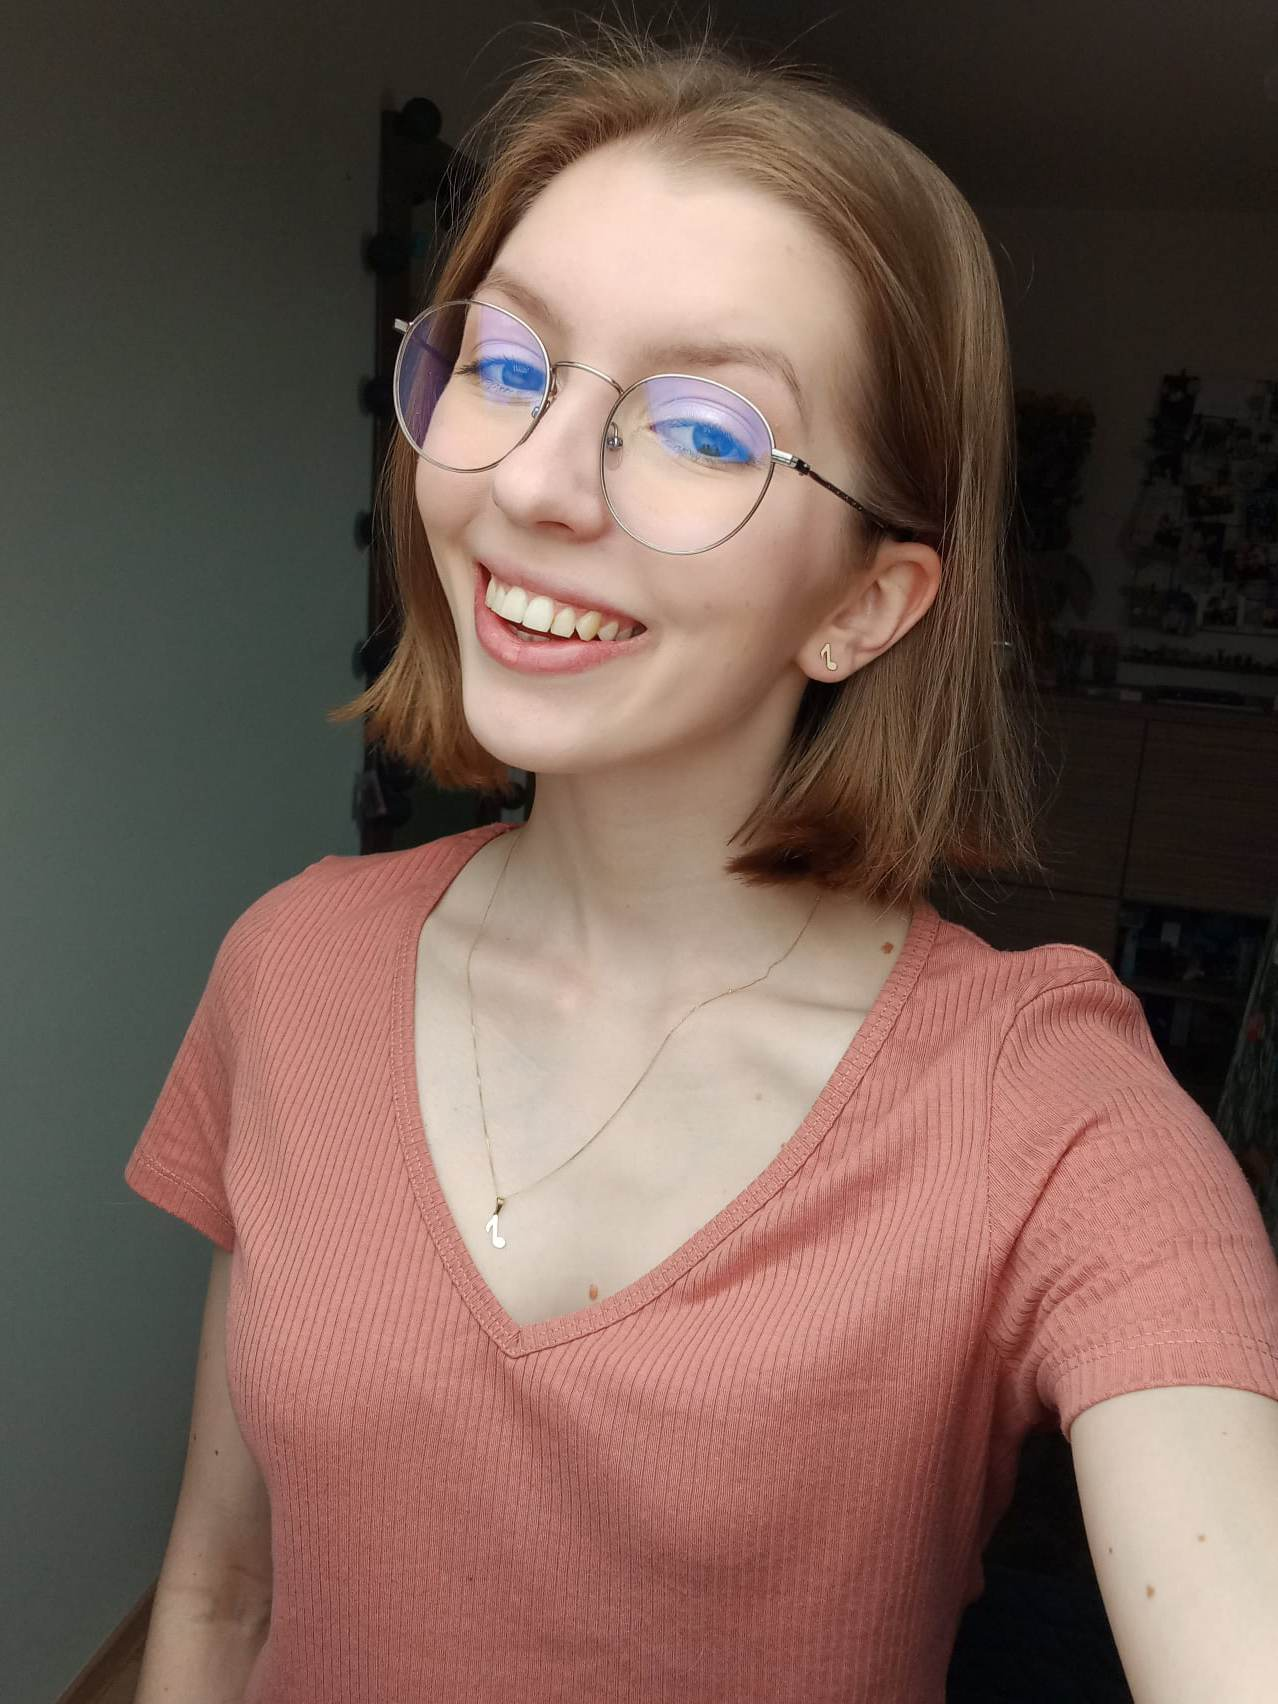
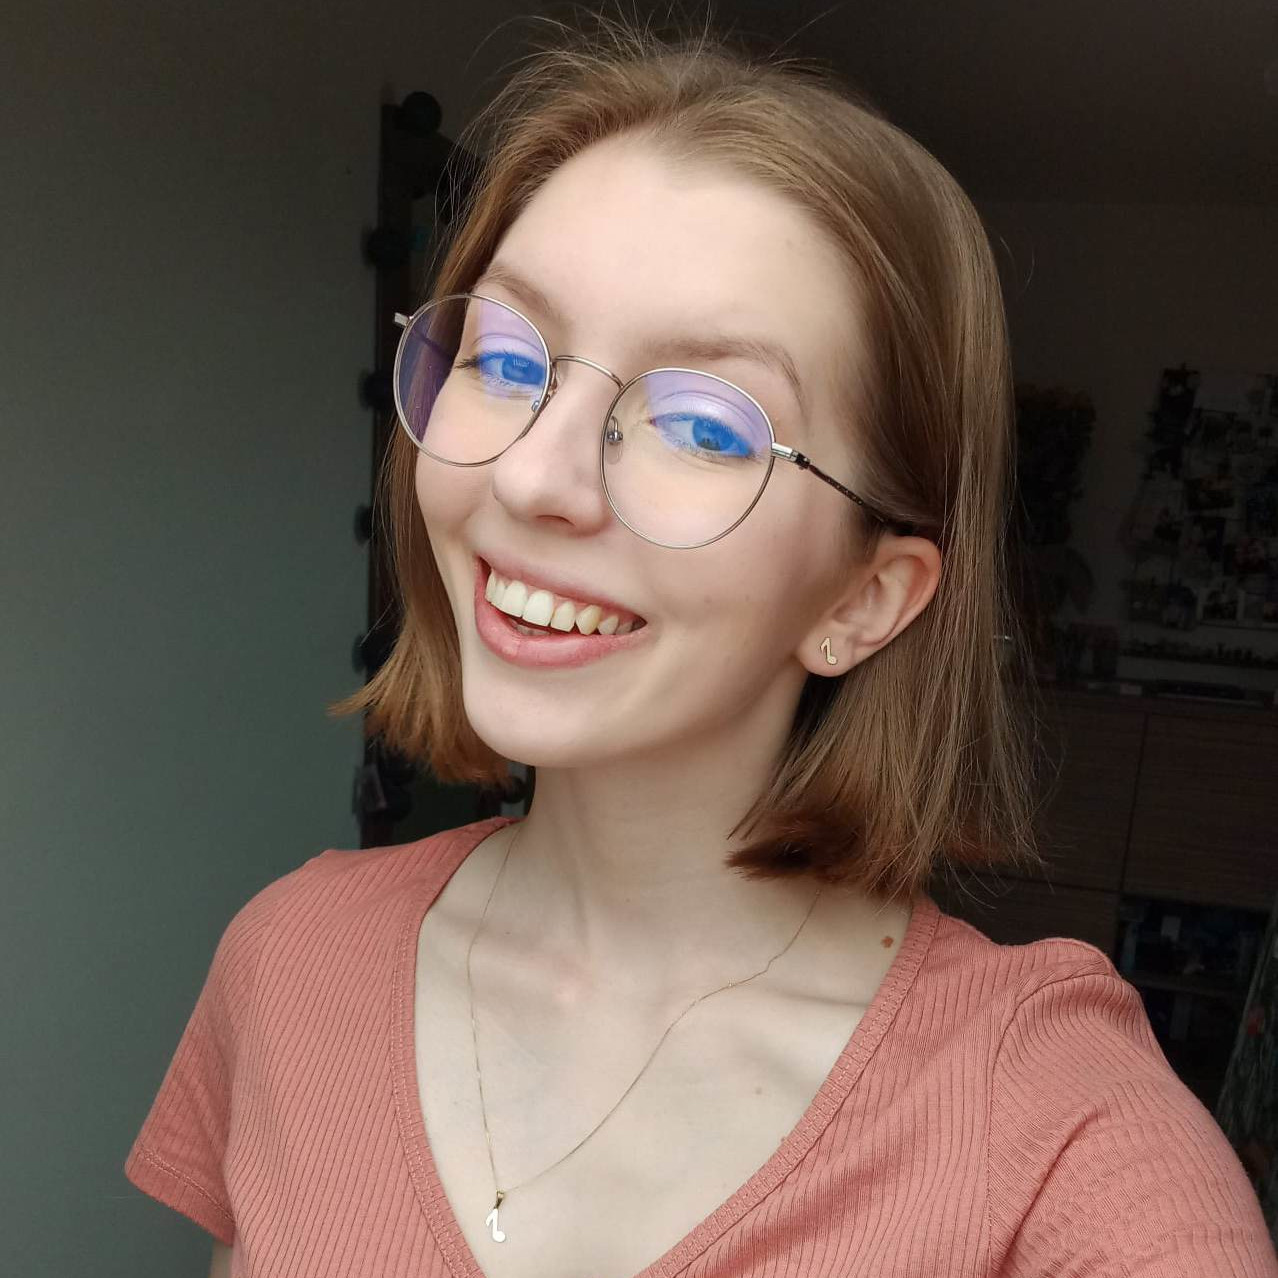
changed query in person photo

diff --git a/src/common/Header/styled.js b/src/common/Header/styled.js
@@ -13,25 +13,28 @@ export const StyledHeader = styled.header`
         margin-top: 32px;
     }
 
-    @media(max-width: ${({ theme }) => theme.breakpoints.mobile}) {
+    @media(max-width: ${({ theme }) => theme.breakpoints.tablet}) {
         flex-direction: column;
         gap: 12px;
         margin-top: 32px;
     }
 `;
 
-export const WrapperImage = styled.div`
-    width: 398px;
-    height: 398px;
+export const WrapperImage = styled.img`
+    width: 30vw;
+    height: 30vw;
     border-radius: 50%;
-    background-image: url("${person}");
-    overflow: hidden;
-    background-position: center top;
-    background-size: cover;
+    min-width: 132px;
+    min-height: 132px;
 
-    @media(max-width: ${({ theme }) => theme.breakpoints.mobile}) {
-        width: 132px;
-        height: 132px;
+    @media(max-width: ${({ theme }) => theme.breakpoints.narrow}) {
+        width: 25vw;
+        height: 25vw;
+    }
+
+    @media(max-width: ${({ theme }) => theme.breakpoints.tablet}) {
+        width: 20vw;
+        height: 20vw;
     }
 `;
 
@@ -39,7 +42,7 @@ export const WrapperDescription = styled.div`
     padding-top: 68px;
     max-width: 624px;
 
-    @media(max-width: ${({ theme }) => theme.breakpoints.mobile}) {
+    @media(max-width: ${({ theme }) => theme.breakpoints.tablet}) {
         padding-top: 0;
     }
 `;
@@ -59,7 +62,7 @@ export const Name = styled.h1`
     font-weight: 900;
     letter-spacing: 1.9px;
 
-    @media(max-width: ${({ theme }) => theme.breakpoints.mobile}) {
+    @media(max-width: ${({ theme }) => theme.breakpoints.narrow}) {
         font-size: 22px;
         letter-spacing: 1.1px;
     }
@@ -71,7 +74,7 @@ export const Description = styled.p`
     line-height: 140%;
     letter-spacing: 1px;
 
-    @media(max-width: ${({ theme }) => theme.breakpoints.mobile}) { 
+    @media(max-width: ${({ theme }) => theme.breakpoints.narrow}) { 
         font-size: 17px;
         letter-spacing: 0.85px;
     }
@@ -89,7 +92,7 @@ export const Button = styled.a`
     background-color: ${({ theme }) => theme.colors.scienceBlue};
     text-decoration: none;
 
-    @media(max-width: ${({ theme }) => theme.breakpoints.mobile}) {
+    @media(max-width: ${({ theme }) => theme.breakpoints.tablet}) {
         gap: 12px;
     }
 `;

diff --git a/src/common/Header/index.js b/src/common/Header/index.js
@@ -1,4 +1,5 @@
 import { WrapperImage, StyledHeader, WrapperDescription, Paragraph, Name, Description, Button } from "./styled";
+import person from "./person.jpg";
 import { ReactComponent as Envelope } from "./envelope.svg";
 import ModeButton from "./ModeButton";
 import { aboutMe } from "../aboutMe";
@@ -7,7 +8,7 @@ const Header = () => {
     return(
         <StyledHeader>
             <ModeButton />
-            <WrapperImage />
+            <WrapperImage src={person} alt="Angelika Mallek"/>
             <WrapperDescription>
                 <Paragraph>THIS IS</Paragraph>
                 <Name>{aboutMe.name}</Name>

diff --git a/src/Theme/theme.js b/src/Theme/theme.js
@@ -2,6 +2,7 @@ const common = {
     breakpoints: {
         mobile: "767px",
         tablet: "991px",
+        narrow: "1520px",
     },
     
 }
